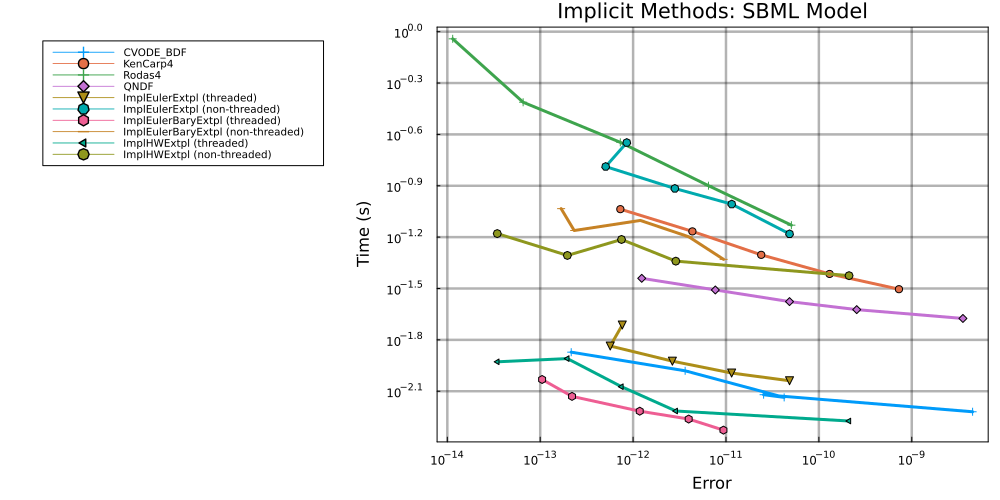
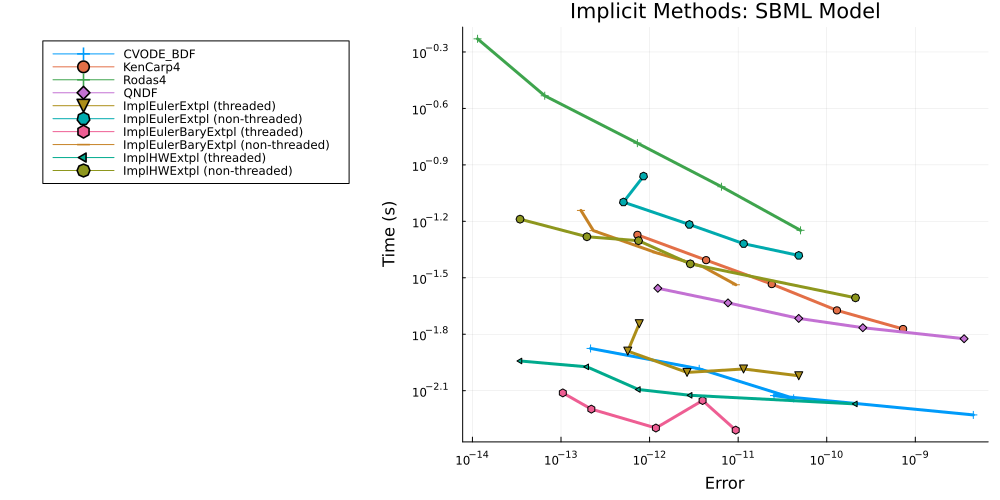
Automatic build\nPublished by build of: https://github.com/SciML/SciMLBenchmarks.jl/commit/d208fdd53774af99e5b0508b5763ff8cbbdccf0e

diff --git a/markdown/Bio/Bidkhori2012.md b/markdown/Bio/Bidkhori2012.md
@@ -750,7 +750,7 @@ u0[109] = 0.0
 
 tspan = (0.0,100.0)
 
-prob = ODEProblem(sbml_model!, u0, tspan, par)
+prob = ODEProblem{true,SciMLBase.FullSpecialize}(sbml_model!, u0, tspan, par)
 
 sys = modelingtoolkitize(prob)
 
@@ -759,8 +759,8 @@ sys = structural_simplify(sys)
 
 const to = TimerOutput()
 
-@timeit to "ODEProb No Jac" oprob = ODEProblem(sys, Float64[], tspan, Float64[])
-@timeit to "ODEProb DenseJac" densejacprob = ODEProblem(sys, Float64[], tspan, Float64[], jac=true)
+@timeit to "ODEProb No Jac" oprob = ODEProblem{true,SciMLBase.FullSpecialize}(sys, Float64[], tspan, Float64[])
+@timeit to "ODEProb DenseJac" densejacprob = ODEProblem{true,SciMLBase.FullSpecialize}(sys, Float64[], tspan, Float64[], jac=true)
 ```
 
 ```
@@ -792,7 +792,7 @@ u0: 109-element Vector{Float64}:
 
 
 ```julia
-@timeit to "ODEProb SparseJac" sparsejacprob = ODEProblem(sys, Float64[], tspan, Float64[], jac=true, sparse=true)
+@timeit to "ODEProb SparseJac" sparsejacprob = ODEProblem{true,SciMLBase.FullSpecialize}(sys, Float64[], tspan, Float64[], jac=true, sparse=true)
 show(to)
 ```
 
@@ -803,19 +803,19 @@ show(to)
     
                              ───────────────────────   ────────────────────
 ────
-      Tot / % measured:           14.2s /  99.3%           1.60GiB /  99.5%
+      Tot / % measured:           39.9s /  96.3%           5.74GiB /  97.6%
     
 
  Section             ncalls     time    %tot     avg     alloc    %tot     
  avg
  ──────────────────────────────────────────────────────────────────────────
 ────
- ODEProb DenseJac         1    10.2s   72.6%   10.2s   1.20GiB   75.1%  1.2
-0GiB
- ODEProb No Jac           1    2.06s   14.7%   2.06s    233MiB   14.3%   23
-3MiB
- ODEProb SparseJac        1    1.79s   12.7%   1.79s    175MiB   10.7%   17
-5MiB
+ ODEProb No Jac           1    18.3s   47.6%   18.3s   2.93GiB   52.4%  2.9
+3GiB
+ ODEProb DenseJac         1    14.2s   37.1%   14.2s   1.95GiB   34.8%  1.9
+5GiB
+ ODEProb SparseJac        1    5.87s   15.3%   5.87s    736MiB   12.8%   73
+6MiB
  ──────────────────────────────────────────────────────────────────────────
 ────
 ```
@@ -863,8 +863,8 @@ test_sol  = TestSolution(sol)
 ```
 
 ```
-0.119121 seconds (108.06 k allocations: 8.883 MiB, 81.57% compilation tim
-e)
+0.218112 seconds (625.67 k allocations: 35.934 MiB, 90.59% compilation ti
+me)
 retcode: Success
 Interpolation: 3rd order Hermite
 t: nothing
@@ -936,11 +936,7 @@ plot(wp, title = "Implicit Methods: SBML Model",legend=:outertopleft,size = (100
      bottom_margin= 5Plots.mm)
 ```
 
-```
-"No matching function wrapper was found!"
-```
-
-
+![](figures/Bidkhori2012_8_1.png)
 
 
 
@@ -986,6 +982,8 @@ plot(wp, title = "Implicit Methods: SBML Model",legend=:outertopleft,size = (100
 ## Sparse Jacobian
 Finally we test using the generated sparse analytic Jacobian function.
 
+Note that the extrapolation methods currently do not support sparse Jacobians.
+
 ```julia
 setups = [
             #Dict(:alg=>CVODE_BDF()), #Fails!
@@ -995,16 +993,17 @@ setups = [
             #Dict(:alg=>lsoda()),
             #Dict(:alg=>radau()),
             #Dict(:alg=>seulex()),
-            Dict(:alg=>ImplicitEulerExtrapolation(autodiff = false,min_order = 8, init_order = 9,threading = OrdinaryDiffEq.PolyesterThreads())),
-            Dict(:alg=>ImplicitEulerExtrapolation(autodiff = false,min_order = 8, init_order = 9,threading = false)),
-            Dict(:alg=>ImplicitEulerBarycentricExtrapolation(autodiff = false,min_order = 7, init_order = 8,threading = OrdinaryDiffEq.PolyesterThreads())),
-            Dict(:alg=>ImplicitEulerBarycentricExtrapolation(autodiff = false,min_order = 7, init_order = 8,threading = false)),
-            Dict(:alg=>ImplicitHairerWannerExtrapolation(autodiff = false,init_order = 5,threading = OrdinaryDiffEq.PolyesterThreads())),
-            Dict(:alg=>ImplicitHairerWannerExtrapolation(autodiff = false,init_order = 5, threading = false)),
+            #Dict(:alg=>ImplicitEulerExtrapolation(autodiff = false,min_order = 8, init_order = 9,threading = OrdinaryDiffEq.PolyesterThreads())),
+            #Dict(:alg=>ImplicitEulerExtrapolation(autodiff = false,min_order = 8, init_order = 9,threading = false)),
+            #Dict(:alg=>ImplicitEulerBarycentricExtrapolation(autodiff = false,min_order = 7, init_order = 8,threading = OrdinaryDiffEq.PolyesterThreads())),
+            #Dict(:alg=>ImplicitEulerBarycentricExtrapolation(autodiff = false,min_order = 7, init_order = 8,threading = false)),
+            #Dict(:alg=>ImplicitHairerWannerExtrapolation(autodiff = false,init_order = 5,threading = OrdinaryDiffEq.PolyesterThreads())),
+            #Dict(:alg=>ImplicitHairerWannerExtrapolation(autodiff = false,init_order = 5, threading = false)),
             ]
 
-solnames = ["KenCarp4","Rodas4","QNDF","ImplEulerExtpl (threaded)", "ImplEulerExtpl (non-threaded)",
-            "ImplEulerBaryExtpl (threaded)","ImplEulerBaryExtpl (non-threaded)","ImplHWExtpl (threaded)","ImplHWExtpl (non-threaded)"]
+solnames = ["KenCarp4","Rodas4","QNDF",#"ImplEulerExtpl (threaded)", "ImplEulerExtpl (non-threaded)",
+            #"ImplEulerBaryExtpl (threaded)","ImplEulerBaryExtpl (non-threaded)","ImplHWExtpl (threaded)","ImplHWExtpl (non-threaded)"
+            ]
 
 wp = WorkPrecisionSet(sparsejacprob ,abstols,reltols,setups;
                       names = solnames,appxsol=test_sol,save_everystep=false,maxiters=Int(1e5),numruns=10)
@@ -1015,29 +1014,7 @@ plot(wp, title = "Implicit Methods: SBML Model",legend=:outertopleft,size = (100
      bottom_margin= 5Plots.mm)
 ```
 
-```
-Error: MethodError: no method matching OrdinaryDiffEq.WOperator(::SciMLBase
-.ODEFunction{true, SciMLBase.FullSpecialize, ModelingToolkit.var"#f#462"{Ru
-ntimeGeneratedFunctions.RuntimeGeneratedFunction{(:ˍ₋arg1, :ˍ₋arg2, :t), Mo
-delingToolkit.var"#_RGF_ModTag", ModelingToolkit.var"#_RGF_ModTag", (0xe3b0
-0ccf, 0x8aadcfe4, 0x4e71a901, 0xab8fb55e, 0x0a41efc9)}, RuntimeGeneratedFun
-ctions.RuntimeGeneratedFunction{(:ˍ₋out, :ˍ₋arg1, :ˍ₋arg2, :t), ModelingToo
-lkit.var"#_RGF_ModTag", ModelingToolkit.var"#_RGF_ModTag", (0xe72c7916, 0x6
-b74e98f, 0x0dde803e, 0x1b675738, 0x5e15b059)}}, LinearAlgebra.UniformScalin
-g{Bool}, Nothing, Nothing, ModelingToolkit.var"#_jac#466"{RuntimeGeneratedF
-unctions.RuntimeGeneratedFunction{(:ˍ₋arg1, :ˍ₋arg2, :t), ModelingToolkit.v
-ar"#_RGF_ModTag", ModelingToolkit.var"#_RGF_ModTag", (0x195537d6, 0x0cf0f75
-0, 0x1b705c87, 0x16521c3f, 0x1d0feb38)}, RuntimeGeneratedFunctions.RuntimeG
-eneratedFunction{(:ˍ₋out, :ˍ₋arg1, :ˍ₋arg2, :t), ModelingToolkit.var"#_RGF_
-ModTag", ModelingToolkit.var"#_RGF_ModTag", (0x38f7dfcb, 0xed502c96, 0xf9c5
-b648, 0x175af9d5, 0xb55167c0)}}, Nothing, Nothing, SparseArrays.SparseMatri
-xCSC{Float64, Int64}, Nothing, Nothing, Nothing, Nothing, Vector{Symbol}, S
-ymbol, Vector{Symbol}, ModelingToolkit.var"#482#generated_observed#469"{Boo
-l, ModelingToolkit.ODESystem, Dict{Any, Any}}, Nothing, ModelingToolkit.ODE
-System}, ::Float64, ::Bool)
-```
-
-
+![](figures/Bidkhori2012_10_1.png)
 
 
 ## Appendix
@@ -1073,7 +1050,7 @@ Environment:
 Package Information:
 
 ```
-Status `/cache/build/exclusive-amdci3-0/julialang/scimlbenchmarks-dot-jl/benchmarks/Bio/Project.toml`
+Status `/cache/build/exclusive-amdci1-0/julialang/scimlbenchmarks-dot-jl/benchmarks/Bio/Project.toml`
 ⌃ [6e4b80f9] BenchmarkTools v1.3.1
 ⌃ [479239e8] Catalyst v12.3.0
 ⌃ [2b5f629d] DiffEqBase v6.105.0
@@ -1098,7 +1075,7 @@ Warning The project dependencies or compat requirements have changed since the m
 And the full manifest:
 
 ```
-Status `/cache/build/exclusive-amdci3-0/julialang/scimlbenchmarks-dot-jl/benchmarks/Bio/Manifest.toml`
+Status `/cache/build/exclusive-amdci1-0/julialang/scimlbenchmarks-dot-jl/benchmarks/Bio/Manifest.toml`
 ⌃ [c3fe647b] AbstractAlgebra v0.27.4
 ⌃ [1520ce14] AbstractTrees v0.4.2
   [79e6a3ab] Adapt v3.4.0
@@ -1214,7 +1191,7 @@ Status `/cache/build/exclusive-amdci3-0/julialang/scimlbenchmarks-dot-jl/benchma
 ⌃ [10f19ff3] LayoutPointers v0.1.10
   [d3d80556] LineSearches v7.2.0
 ⌃ [7ed4a6bd] LinearSolve v1.26.0
-  [2ab3a3ac] LogExpFunctions v0.3.18
+⌃ [2ab3a3ac] LogExpFunctions v0.3.18
 ⌅ [e6f89c97] LoggingExtras v0.4.9
 ⌃ [bdcacae8] LoopVectorization v0.12.132
   [1914dd2f] MacroTools v0.5.10
@@ -1229,7 +1206,7 @@ Status `/cache/build/exclusive-amdci3-0/julialang/scimlbenchmarks-dot-jl/benchma
   [102ac46a] MultivariatePolynomials v0.4.6
   [ffc61752] Mustache v1.0.14
 ⌃ [d8a4904e] MutableArithmetics v1.0.4
-  [d41bc354] NLSolversBase v7.8.2
+⌃ [d41bc354] NLSolversBase v7.8.2
   [2774e3e8] NLsolve v4.5.1
   [77ba4419] NaNMath v1.0.1
   [8913a72c] NonlinearSolve v0.3.22
@@ -1237,7 +1214,7 @@ Status `/cache/build/exclusive-amdci3-0/julialang/scimlbenchmarks-dot-jl/benchma
   [09606e27] ODEInterfaceDiffEq v3.11.0
 ⌃ [6fe1bfb0] OffsetArrays v1.12.7
 ⌃ [4d8831e6] OpenSSL v1.2.1
-  [429524aa] Optim v1.7.3
+⌃ [429524aa] Optim v1.7.3
   [bac558e1] OrderedCollections v1.4.1
 ⌃ [1dea7af3] OrdinaryDiffEq v6.28.0
   [90014a1f] PDMats v0.11.16
@@ -1294,7 +1271,7 @@ Status `/cache/build/exclusive-amdci3-0/julialang/scimlbenchmarks-dot-jl/benchma
   [82ae8749] StatsAPI v1.5.0
   [2913bbd2] StatsBase v0.33.21
   [4c63d2b9] StatsFuns v1.0.1
-⌃ [7792a7ef] StrideArraysCore v0.3.15
+⌅ [7792a7ef] StrideArraysCore v0.3.15
   [69024149] StringEncodings v0.3.5
 ⌃ [c3572dad] Sundials v4.10.1
   [d1185830] SymbolicUtils v0.19.11
